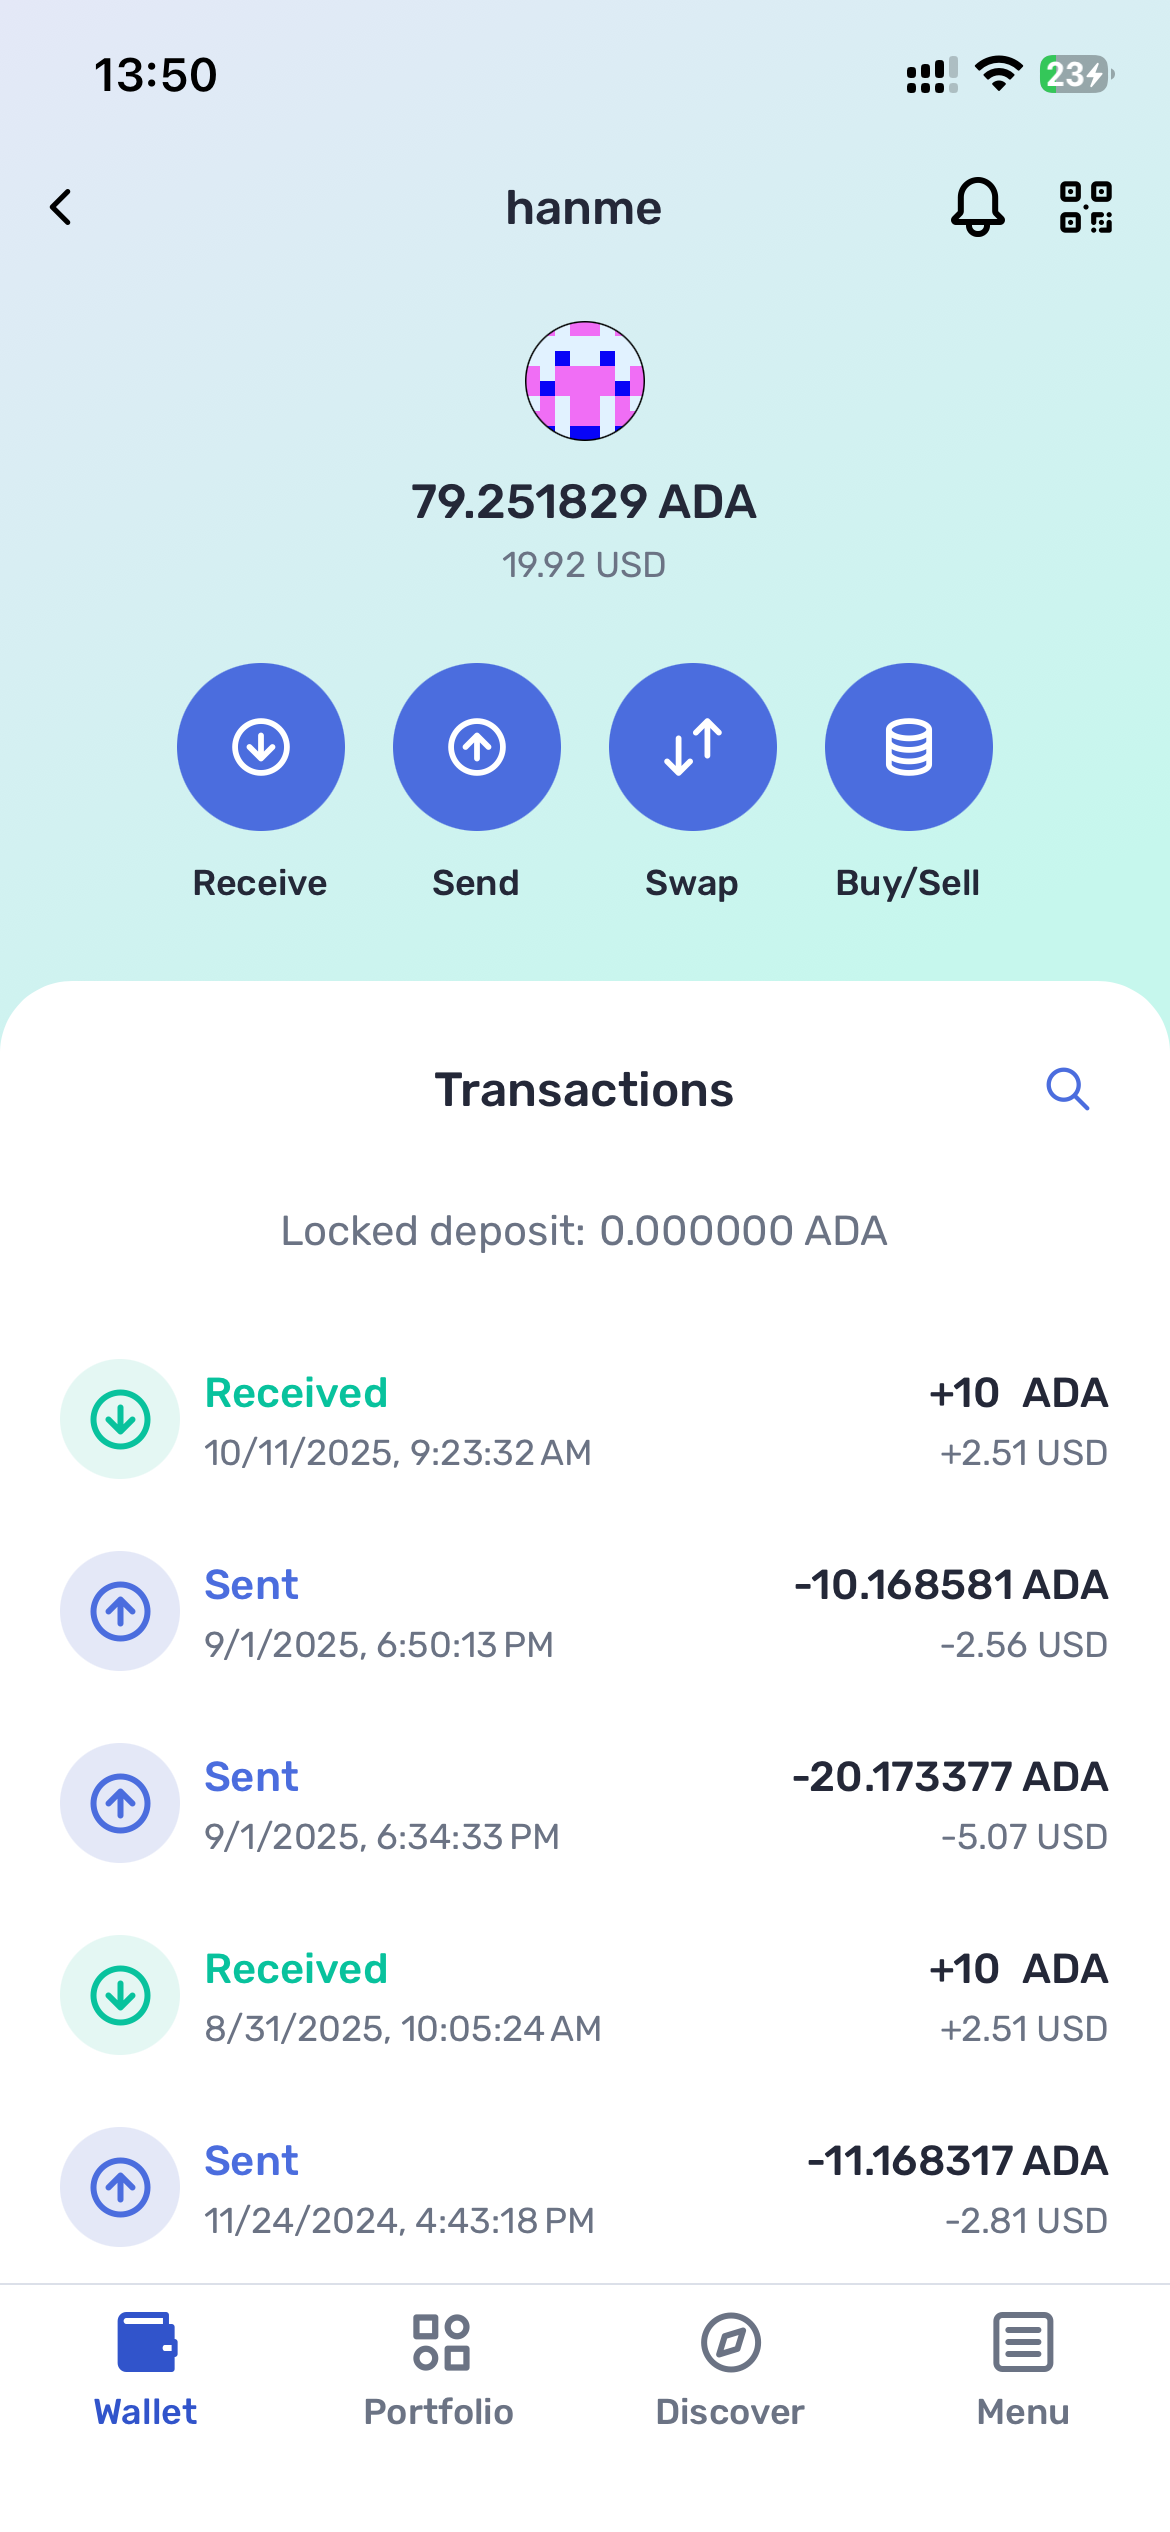
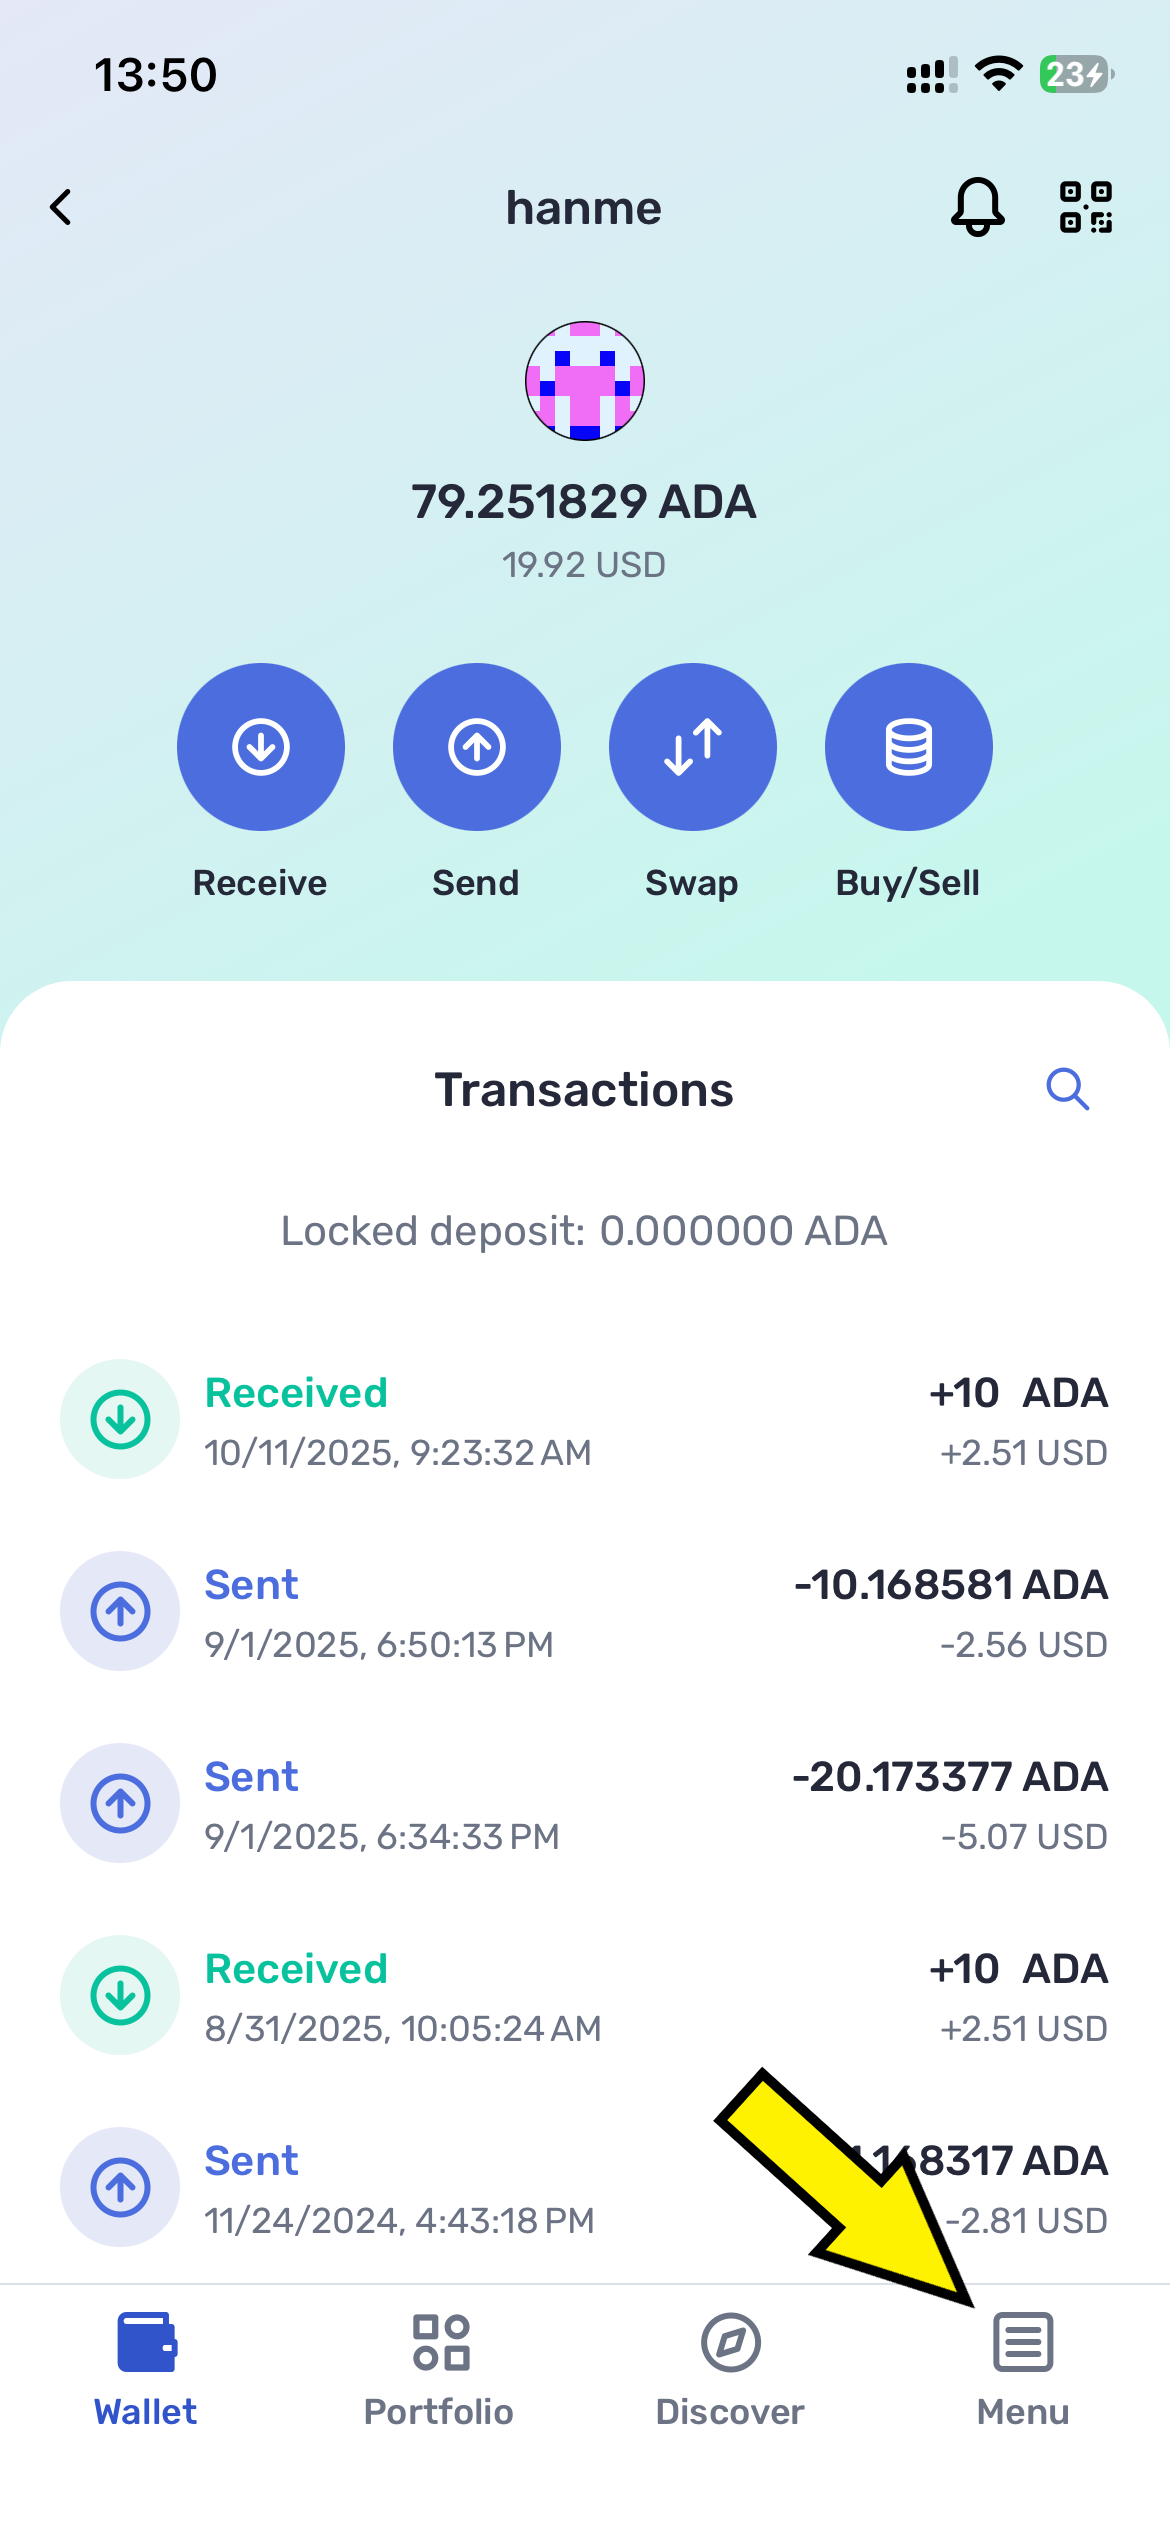
change

Changed region(s): [[0.6154, 0.8112, 0.8308, 0.936]]

diff --git a/_posts/2026-01-02-how-to-delegate-voting-power to a-DRep.md b/_posts/2026-01-02-how-to-delegate-voting-power to a-DRep.md
@@ -5,4 +5,8 @@ permalink: /how-delegate-to-a-DREP/
 ---
 DREP is like a 'congressperson' of Delegators in the Cardano Block-chain Governance. To vote for some important decisions affect entire block-chain.
 <br>
-To delegate for a DREP:
+To delegate for a DREP:<br>
+Step 1: From your main view in Yoroi app, go to {Menu}
+<img src="https://raw.githubusercontent.com/buddapool/buddapool.github.io/refs/heads/main/assets/images/drep1.png">
+<br>
+
